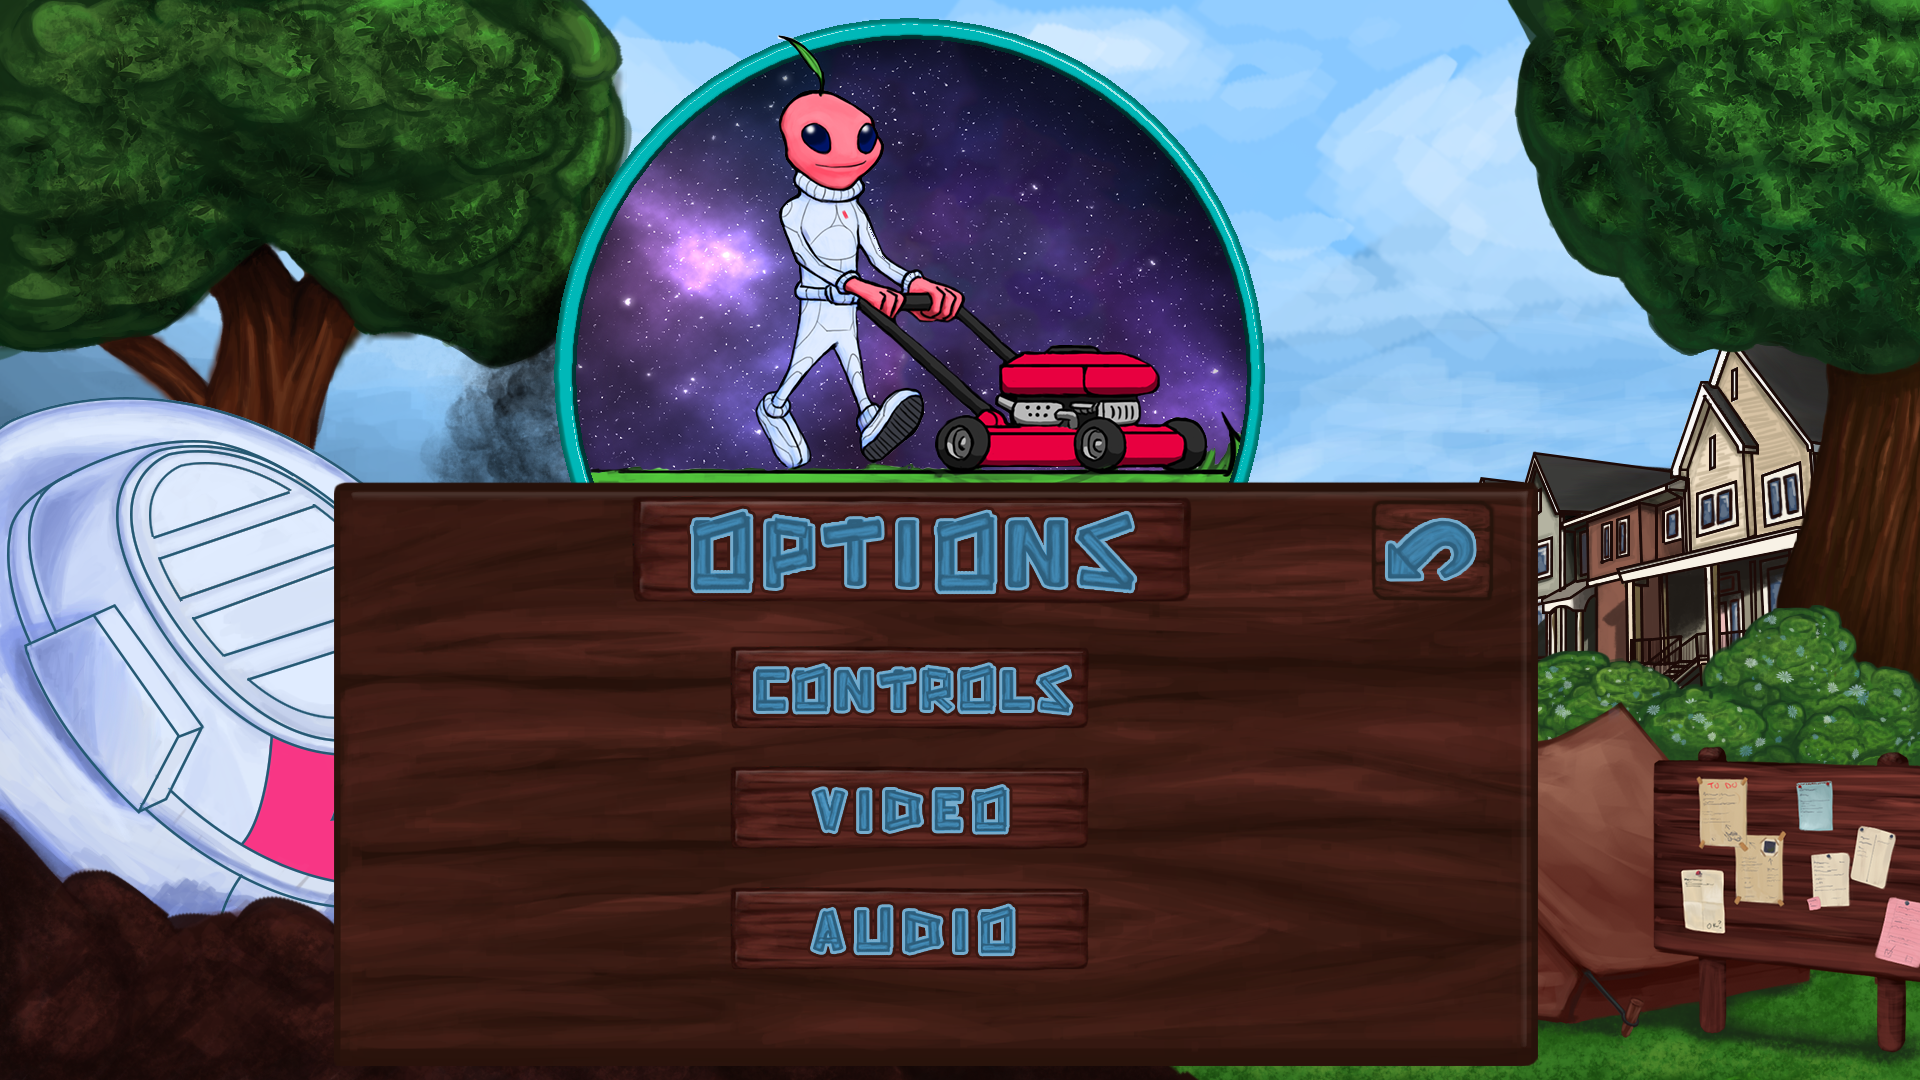
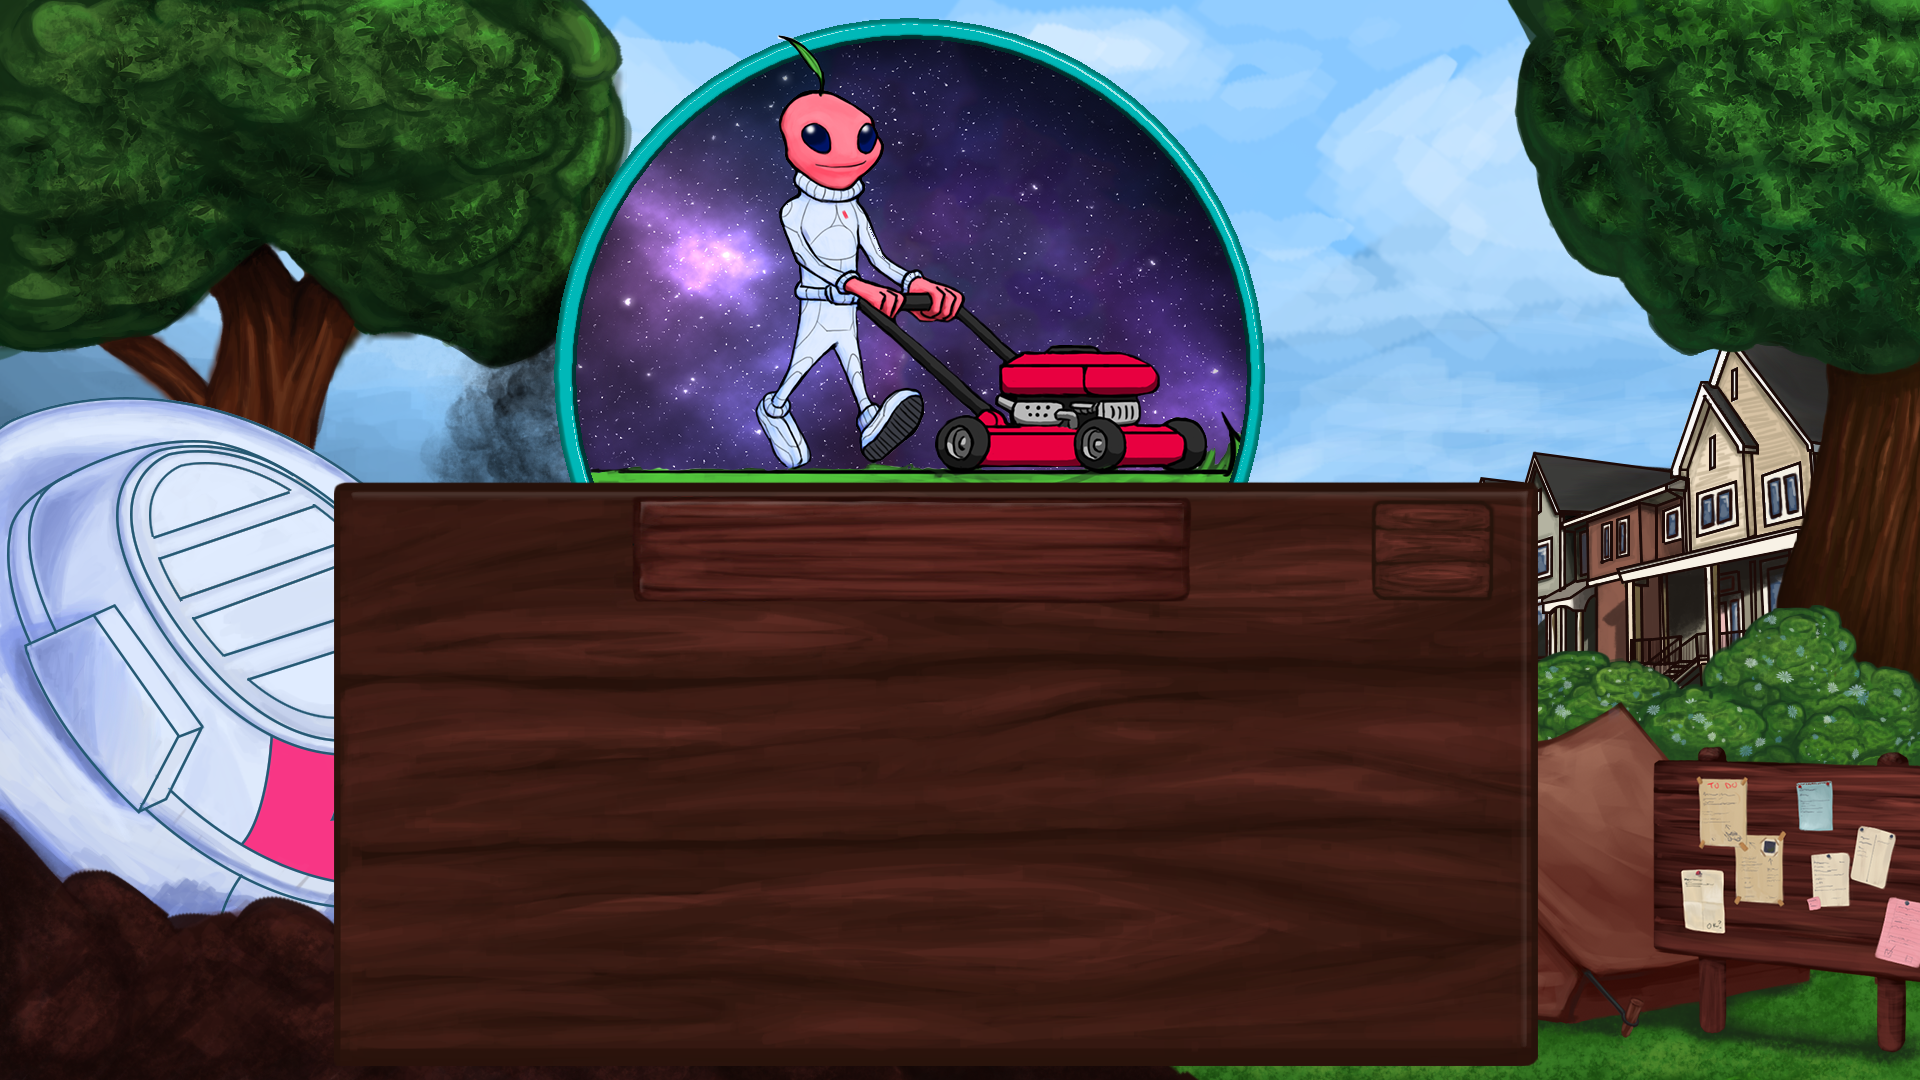
Many back runda

diff --git a/Spelprojekt/Menu/optionMenu.cpp b/Spelprojekt/Menu/optionMenu.cpp
@@ -51,7 +51,7 @@ void optionMenu::updateoptionMenu(sf::RenderWindow &window, sf::Vector2i &mouse)
 {
 	mMouse.x = mouse.x;
 	mMouse.y = mouse.y;
-	std::cout << mMouse.x << ": 1 :" << mMouse.y << std::endl;
+	//std::cout << mMouse.x << ": 1 :" << mMouse.y << std::endl;
 
 	if (sf::Mouse::isButtonPressed(sf::Mouse::Left) && !mClick) {
 		mClick = true;
@@ -205,7 +205,7 @@ void optionMenu::displayMenu01(sf::RenderWindow &window)
 void optionMenu::setTextures()
 {
 
-	if (!textBg01.loadFromFile("Resource Files/Backgrounds/Background_Options.png")) //try to load the texture. if its wrong, give error
+	if (!textBg01.loadFromFile("Resource Files/Backgrounds/Background_OptionsMain.png")) //try to load the texture. if its wrong, give error
 		textBg01.loadFromFile("error.jpg");
 
 	if (!textControl.loadFromFile("Resource Files/Menus/Controls_Small.png"))

diff --git a/Spelprojekt/KeyboardOptionMenu.cpp b/Spelprojekt/KeyboardOptionMenu.cpp
@@ -142,7 +142,7 @@ void KeyboardOptionMenu::displayMenu01(sf::RenderWindow &window)
 void KeyboardOptionMenu::setTextures()
 {
 	
-	if (!textBg01.loadFromFile("resource Files/Backgrounds/Background_Options_Controls.png")) //try to load the texture. if its wrong, give error
+	if (!textBg01.loadFromFile("resource Files/Backgrounds/Background_Options.png")) //try to load the texture. if its wrong, give error
 		textBg01.loadFromFile("error.jpg");
 
 	if (!highlighttextBg01.loadFromFile("temiu.png")) //try to load the texture. if its wrong, give error

diff --git a/Spelprojekt/SoundMenu.cpp b/Spelprojekt/SoundMenu.cpp
@@ -138,7 +138,7 @@ void SoundMenu::displayMenu01(sf::RenderWindow &window)
 void SoundMenu::setTextures()
 {
 	
-	if (!textBg01.loadFromFile("Resource Files/Backgrounds/Background_Options_Audio.png")) //try to load the texture. if its wrong, give error
+	if (!textBg01.loadFromFile("Resource Files/Backgrounds/Background_Options.png")) //try to load the texture. if its wrong, give error
 	textBg01.loadFromFile("error.jpg");
 
 	if (!highlighttextBg01.loadFromFile("temiu.png")) //try to load the texture. if its wrong, give error

diff --git a/Spelprojekt/Menu/startMenu.cpp b/Spelprojekt/Menu/startMenu.cpp
@@ -219,7 +219,7 @@ void startMenu::displayMenu01(sf::RenderWindow &window)
 void startMenu::setTextures()
 {
 
-	if (!textBg01.loadFromFile("Resource Files/Backgrounds/start_menu_1.png")) //try to load the texture. if its wrong, give error
+	if (!textBg01.loadFromFile("Resource Files/Backgrounds/Background_StartMenu.png")) //try to load the texture. if its wrong, give error
 		textBg01.loadFromFile("error.jpg");
 
 	if (!textContinue.loadFromFile("Resource Files/Menus/Decline.png"))

diff --git a/Spelprojekt/Main.cpp b/Spelprojekt/Main.cpp
@@ -40,7 +40,7 @@ int main(){
 		window.clear();
 		
 		theGame.gameStatesHandler(window, mouse, mMusicManager, mSoundManager);
-		cout << theGame.mState << "     " <<  theGame.mOptionMenu01->checkOptionState() << endl;
+		//cout << theGame.mState << "     " <<  theGame.mOptionMenu01->checkOptionState() << endl;
 		window.display();
 	}
 	return 0;
